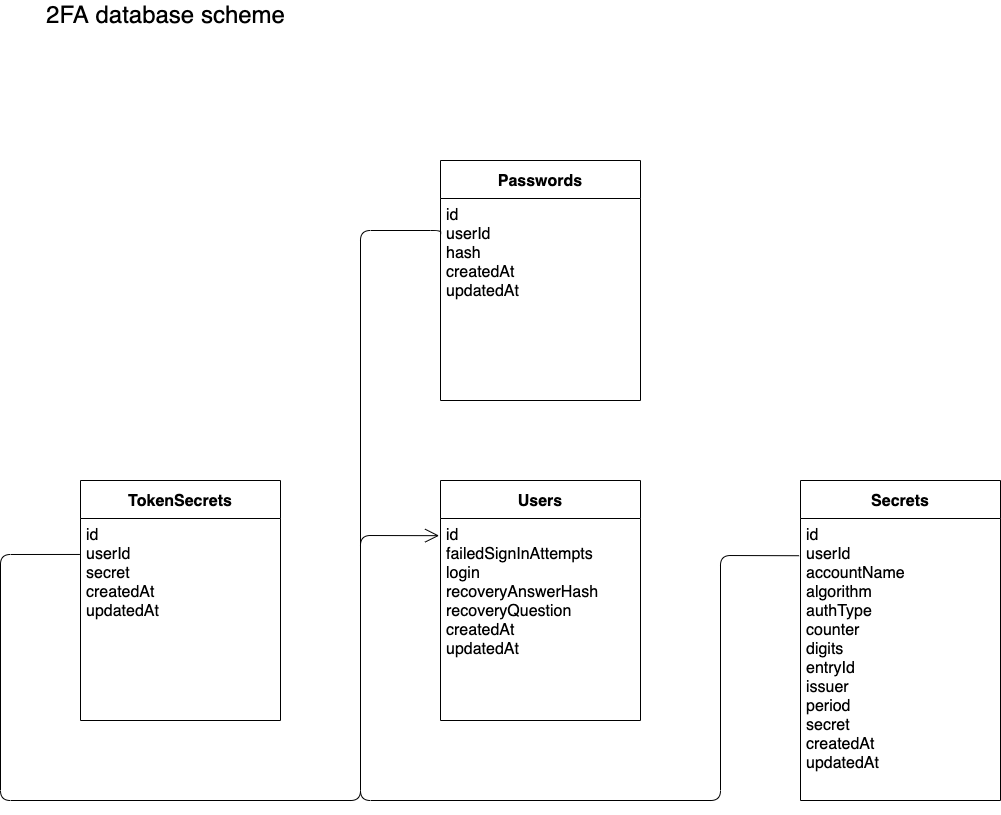
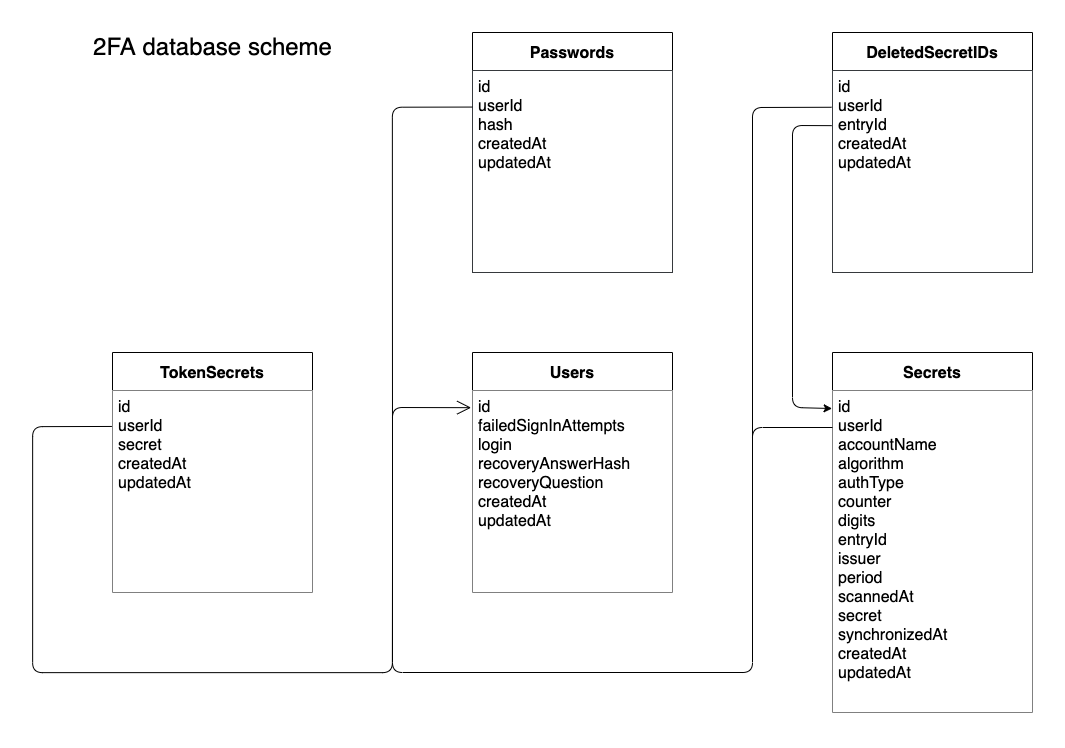
Update database scheme, work on Secrets APIs

diff --git a/database/models/Users.model.go b/database/models/Users.model.go
@@ -6,7 +6,8 @@ type Users struct {
 	Login                string
 	RecoveryAnswerHash   string
 	RecoveryQuestion     string
-	Passwords            Passwords    `gorm:"foreignKey:UserID;references:ID;constraint:OnUpdate:CASCADE,OnDelete:CASCADE;"`
-	Secrets              Secrets      `gorm:"foreignKey:UserID;references:ID;constraint:OnUpdate:CASCADE,OnDelete:CASCADE;"`
-	TokenSecrets         TokenSecrets `gorm:"foreignKey:UserID;references:ID;constraint:OnUpdate:CASCADE,OnDelete:CASCADE;"`
+	DeletedSecretIDs     DeletedSecretIDs `gorm:"foreignKey:UserID;references:ID;constraint:OnUpdate:CASCADE,OnDelete:CASCADE;"`
+	Passwords            Passwords        `gorm:"foreignKey:UserID;references:ID;constraint:OnUpdate:CASCADE,OnDelete:CASCADE;"`
+	Secrets              Secrets          `gorm:"foreignKey:UserID;references:ID;constraint:OnUpdate:CASCADE,OnDelete:CASCADE;"`
+	TokenSecrets         TokenSecrets     `gorm:"foreignKey:UserID;references:ID;constraint:OnUpdate:CASCADE,OnDelete:CASCADE;"`
 }

diff --git a/apis/secrets/get-secrets.controller.go b/apis/secrets/get-secrets.controller.go
@@ -1,0 +1,32 @@
+package secrets
+
+import (
+	"github.com/gofiber/fiber/v2"
+
+	"backend2fa/database"
+	"backend2fa/database/models"
+	"backend2fa/utilities"
+)
+
+func getSecretsController(context *fiber.Ctx) error {
+	userId := context.Locals("userId").(uint)
+
+	var secrets []models.Secrets
+	result := database.Connection.Where("user_id = ?", userId).Find(&secrets)
+	if result.Error != nil {
+		return fiber.NewError(fiber.StatusInternalServerError)
+	}
+	var deletedIds []models.DeletedSecretIDs
+	result = database.Connection.Where("user_id = ?", userId).Find(&deletedIds)
+	if result.Error != nil {
+		return fiber.NewError(fiber.StatusInternalServerError)
+	}
+
+	return utilities.Response(utilities.ResponsePayloadStruct{
+		Context: context,
+		Data: fiber.Map{
+			"deletedSecretIds": deletedIds,
+			"secrets":          secrets,
+		},
+	})
+}

diff --git a/apis/secrets/index.go b/apis/secrets/index.go
@@ -11,8 +11,7 @@ func Initialize(app *fiber.App) {
 
 	api.Delete("/:id", middlewares.Authorize, deleteSecretController)
 	api.Delete("/delete/all", middlewares.Authorize, deleteAllSecretsController)
+	api.Get("/", middlewares.Authorize, getSecretsController)
 	api.Patch("/:id", middlewares.Authorize, updateSecretController)
 	api.Post("/", middlewares.Authorize, addSecretController)
-
-	// TODO: synchronization logic
 }

diff --git a/utilities/response.go b/utilities/response.go
@@ -22,7 +22,7 @@ func Response(payload ResponsePayloadStruct) error {
 		"datetime": gohelpers.MakeTimestamp(),
 		"handling": gohelpers.MakeTimestamp() - payload.Context.Locals("handling").(int64),
 		"info":     info,
-		"request":  payload.Context.OriginalURL(),
+		"request":  payload.Context.OriginalURL() + " [" + payload.Context.Method() + "]",
 		"status":   status,
 	}
 

diff --git a/README.md b/README.md
@@ -2,6 +2,21 @@
 
 Backend for [2FA Mobile](https://github.com/peterdee/2fa-mobile)
 
+Stack: [Go](https://golang.org), [Fiber](https://gofiber.io), [GORM](https://gorm.io)
+
+Development: http://localhost:2244
+
+Heroku: https://backend2fa.herokuapp.com
+
+### Deploy
+
+```shell script
+git clone https://github.com/peterdee/2fa-backend
+cd ./2fa-backend
+gvm use go1.18
+go mod download
+```
+
 ### Environment variables
 
 The `.env` file is required for all of the environments except for Heroku, see [.env.example](.env.example) for details
@@ -13,6 +28,10 @@ go run ./
 ```
 
 Can be launched with [AIR](https://github.com/cosmtrek/air)
+
+### Heroku
+
+The `release` branch is automatically deployed to Heroku
 
 ### License
 
